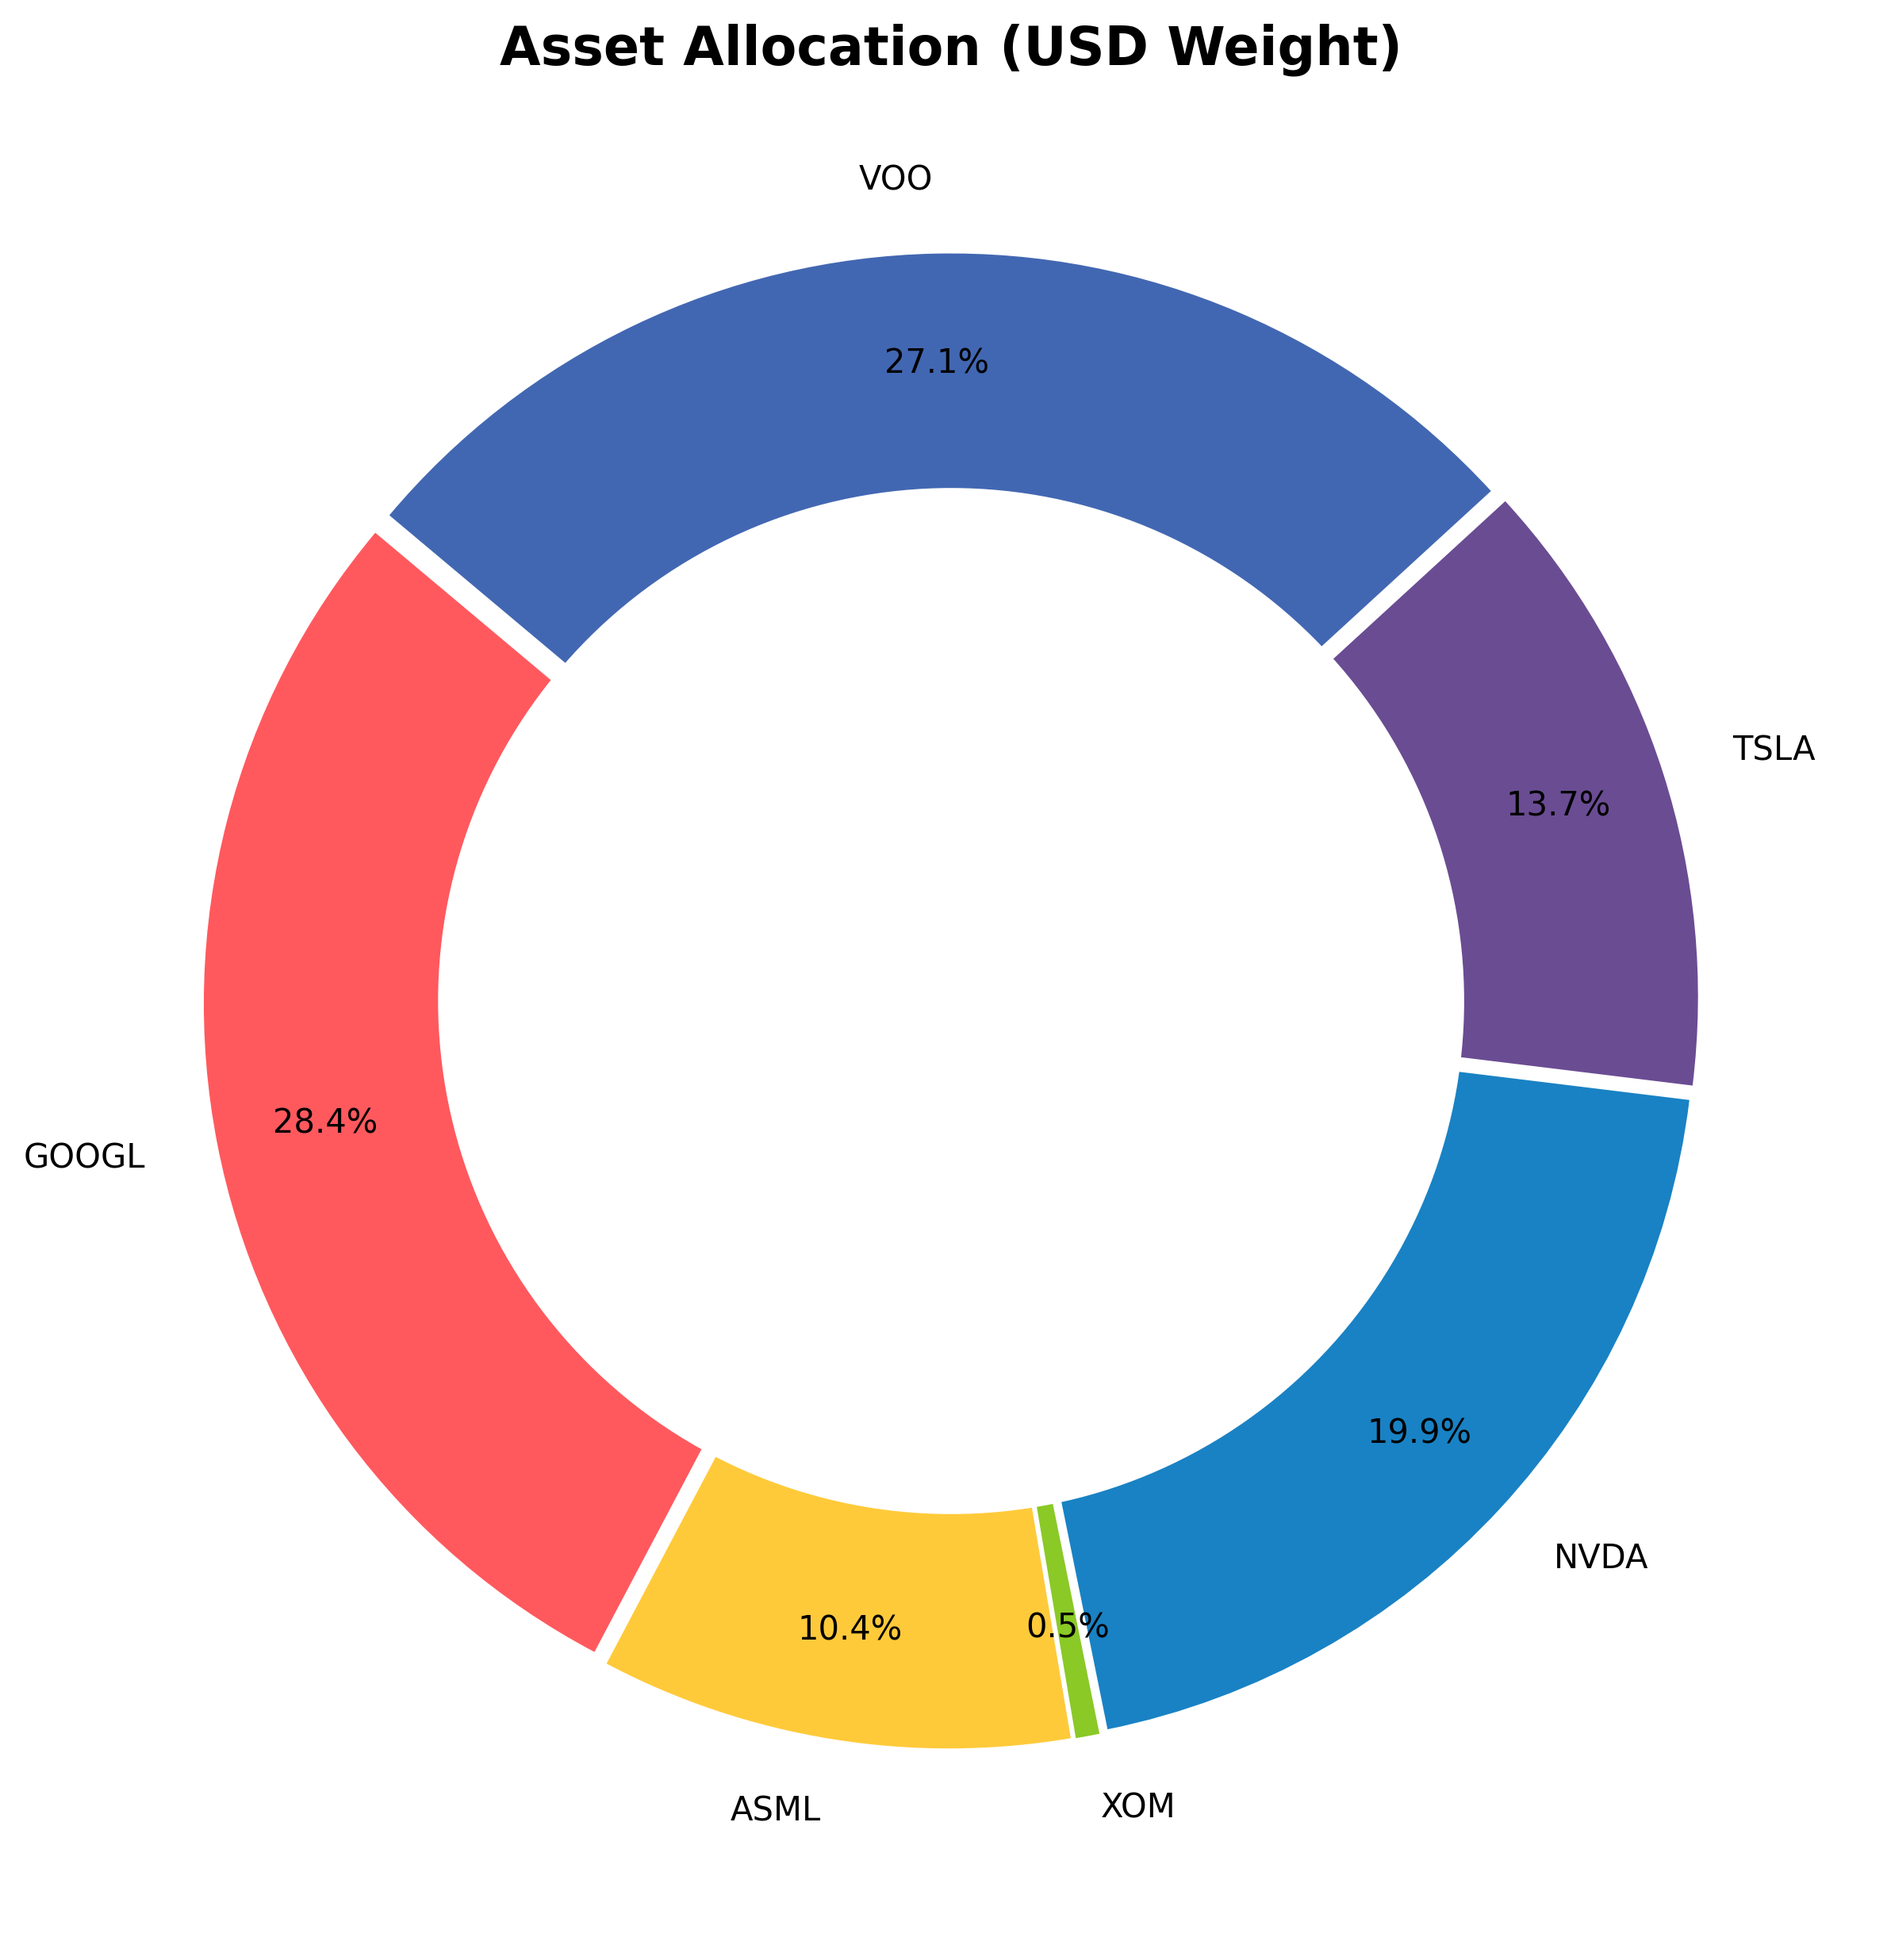
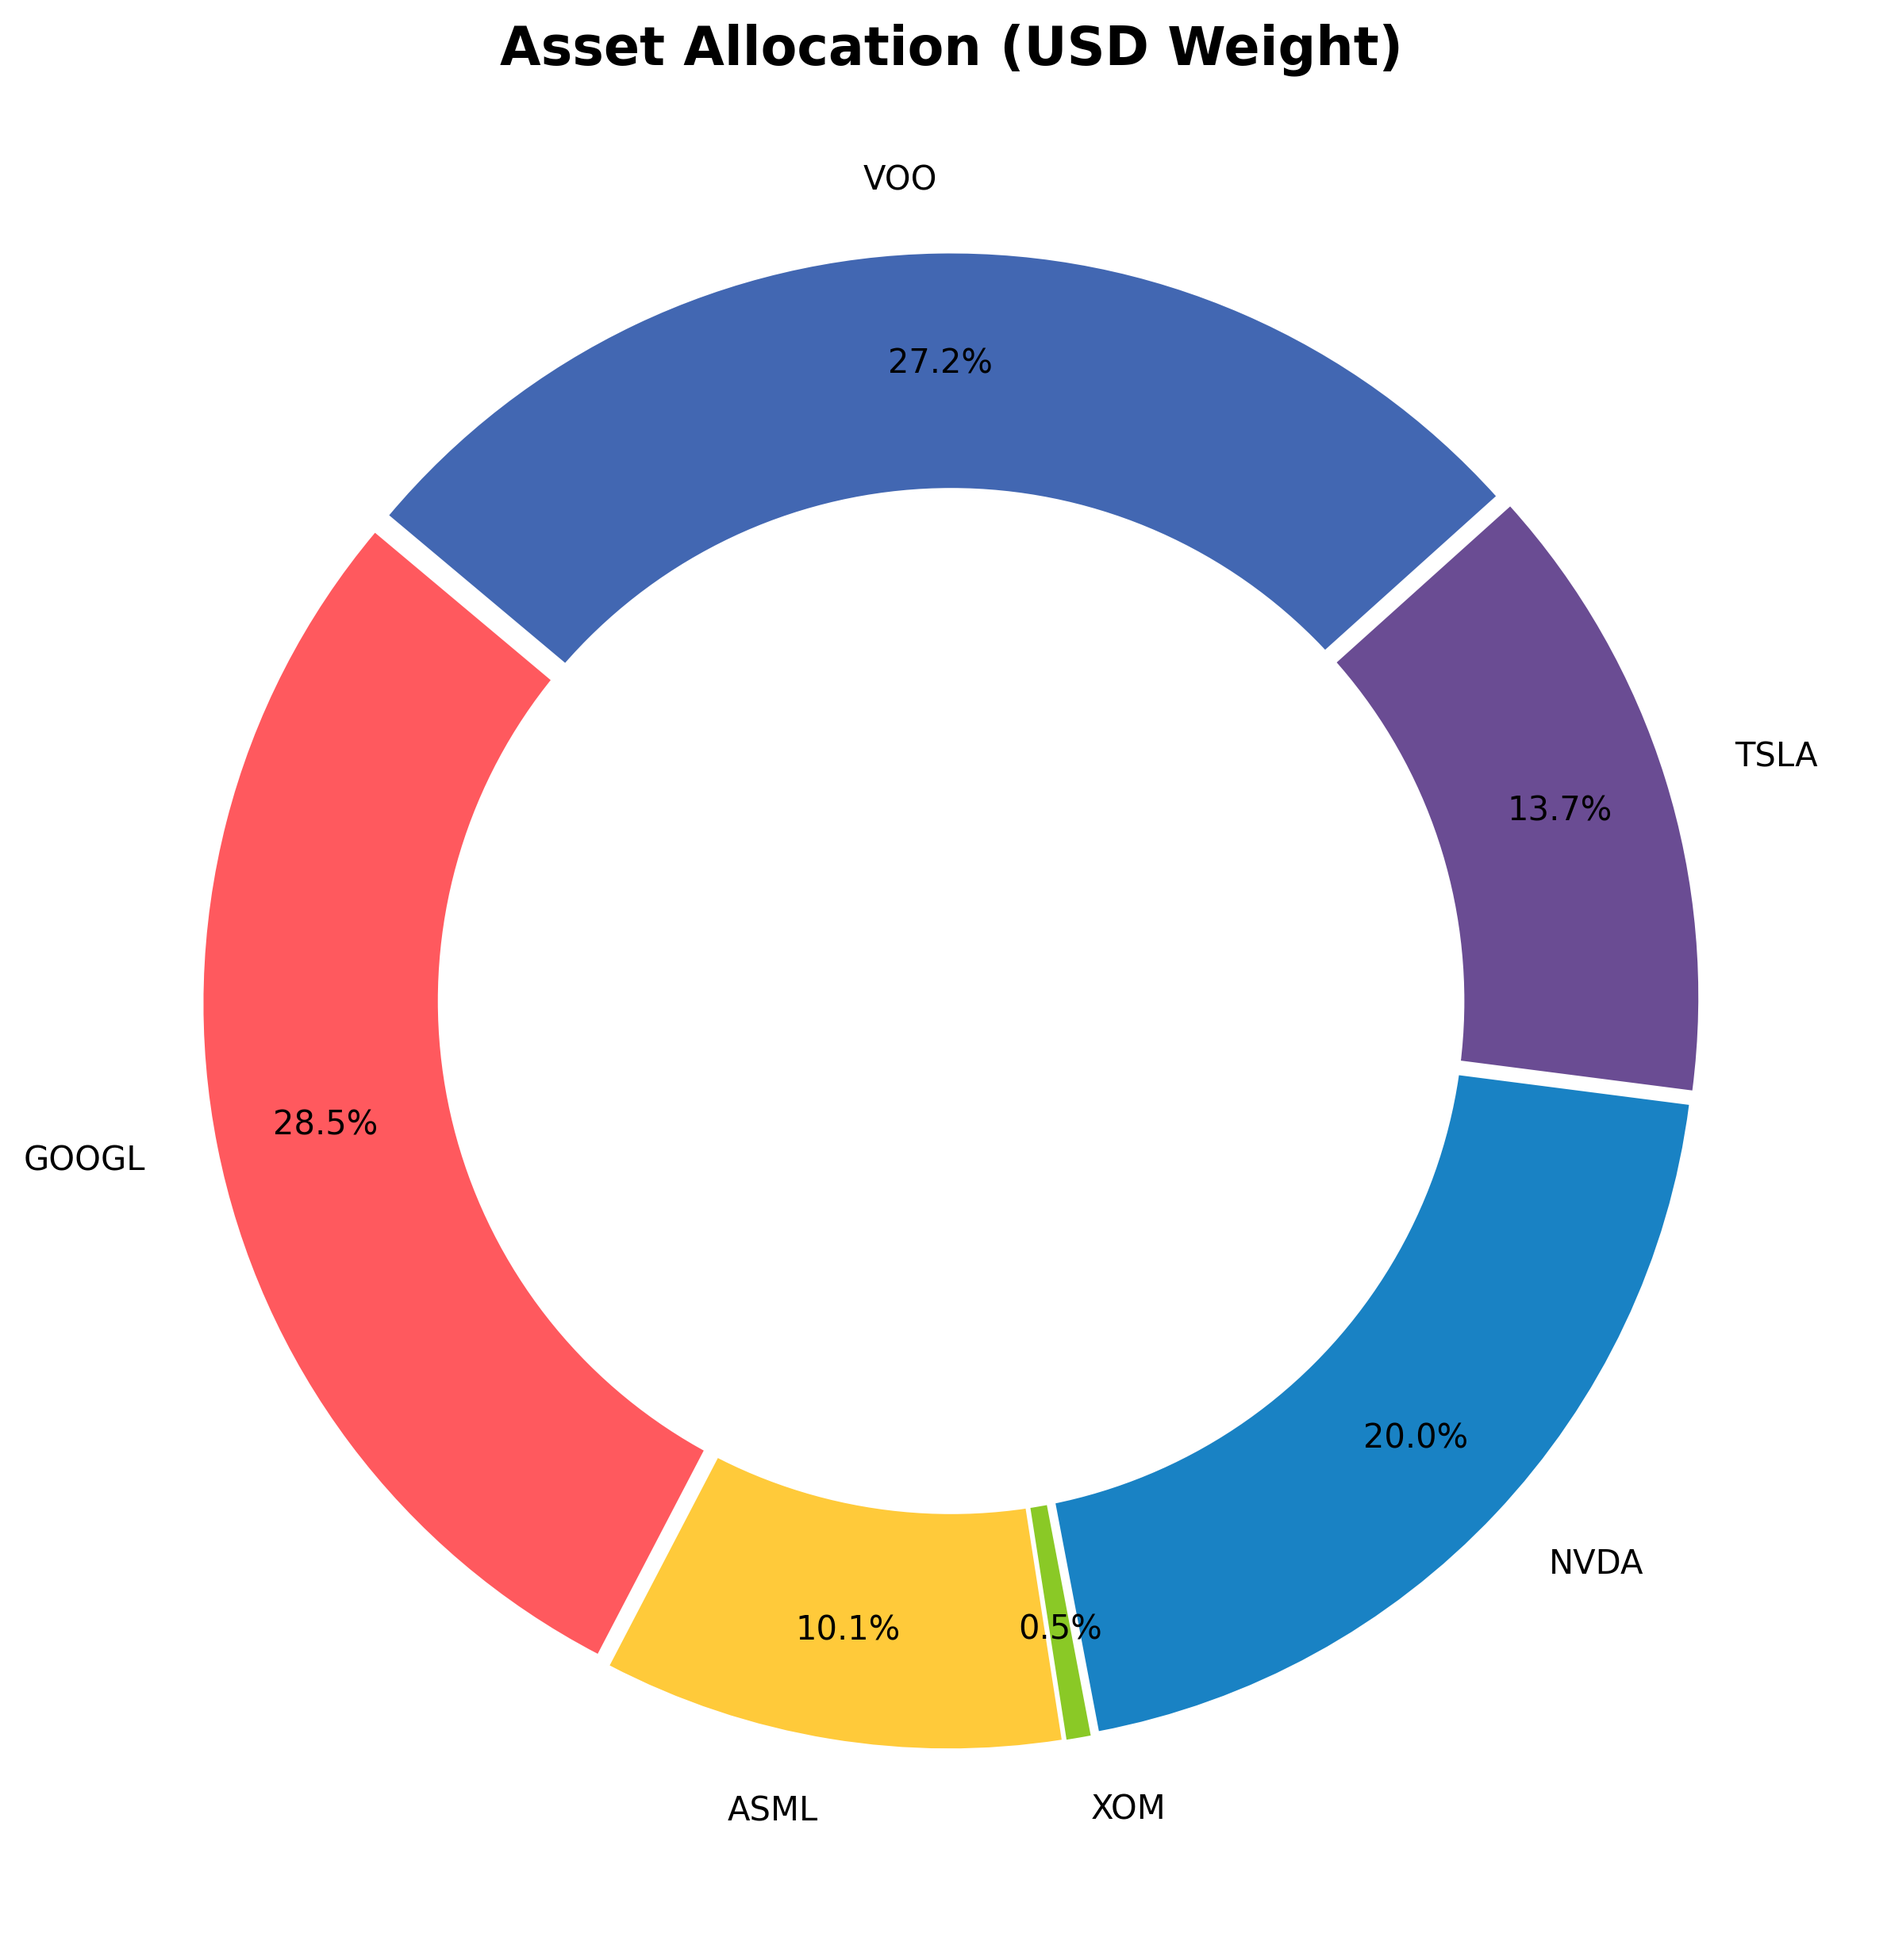
System Run: Analytics & Archive Update [skip ci]

diff --git a/README.md b/README.md
@@ -1,23 +1,23 @@
 # 📊 Portfolio Dashboard | מעקב תיק השקעות
-**Last Update:** 16/04/2026 01:55 | **USD/ILS:** ₪2.995
+**Last Update:** 16/04/2026 18:44 | **USD/ILS:** ₪2.995
 
 ## 💰 Portfolio Summary | סיכום התיק
 | Metric | Value | נתון |
 | :--- | :--- | :--- |
-| **Current Value** | `₪170,805` | **שווי נוכחי** |
-| **Total Invested** | `₪128,408` | **סך השקעה** |
-| **Total Profit/Loss** | `+33.02%` (₪42,397) | **רווח/הפסד כולל** |
-| **Daily Change** | `+1.55%` | **שינוי יומי** |
+| **Current Value** | `₪170,193` | **שווי נוכחי** |
+| **Total Invested** | `₪128,391` | **סך השקעה** |
+| **Total Profit/Loss** | `+32.56%` (₪41,802) | **רווח/הפסד כולל** |
+| **Daily Change** | `+0.70%` | **שינוי יומי** |
 
 ## 📜 Holdings | פירוט החזקות
 | Ticker | Shares | Avg. Cost | Current Price | P&L % | P&L ILS |
 | :--- | :--- | :--- | :--- | :--- | :--- |
-| GOOGL | 48 | $187.99 | $337.15 | 🟢 +79.34% | ₪21,445 |
-| ASML | 4 | $934.51 | $1,481.93 | 🟢 +58.58% | ₪6,559 |
-| XOM | 2 | $126.08 | $149.01 | 🟢 +18.19% | ₪137 |
-| NVDA | 57 | $148.62 | $198.87 | 🟢 +33.81% | ₪8,579 |
-| TSLA | 20 | $436.45 | $392.03 | 🔴 -10.18% | ₪-2,661 |
-| VOO | 24 | $527.38 | $643.38 | 🟢 +22.00% | ₪8,339 |
+| GOOGL | 48 | $187.99 | $336.97 | 🟢 +79.25% | ₪21,416 |
+| ASML | 4 | $934.51 | $1,436.45 | 🟢 +53.71% | ₪6,013 |
+| XOM | 2 | $126.08 | $151.47 | 🟢 +20.14% | ₪152 |
+| NVDA | 57 | $148.62 | $199.04 | 🟢 +33.93% | ₪8,607 |
+| TSLA | 20 | $436.45 | $389.38 | 🔴 -10.78% | ₪-2,819 |
+| VOO | 24 | $527.38 | $644.72 | 🟢 +22.25% | ₪8,434 |
 
 ## 📈 Charts | גרפים
 ![Performance](./data_hub/portfolio_performance.png)
